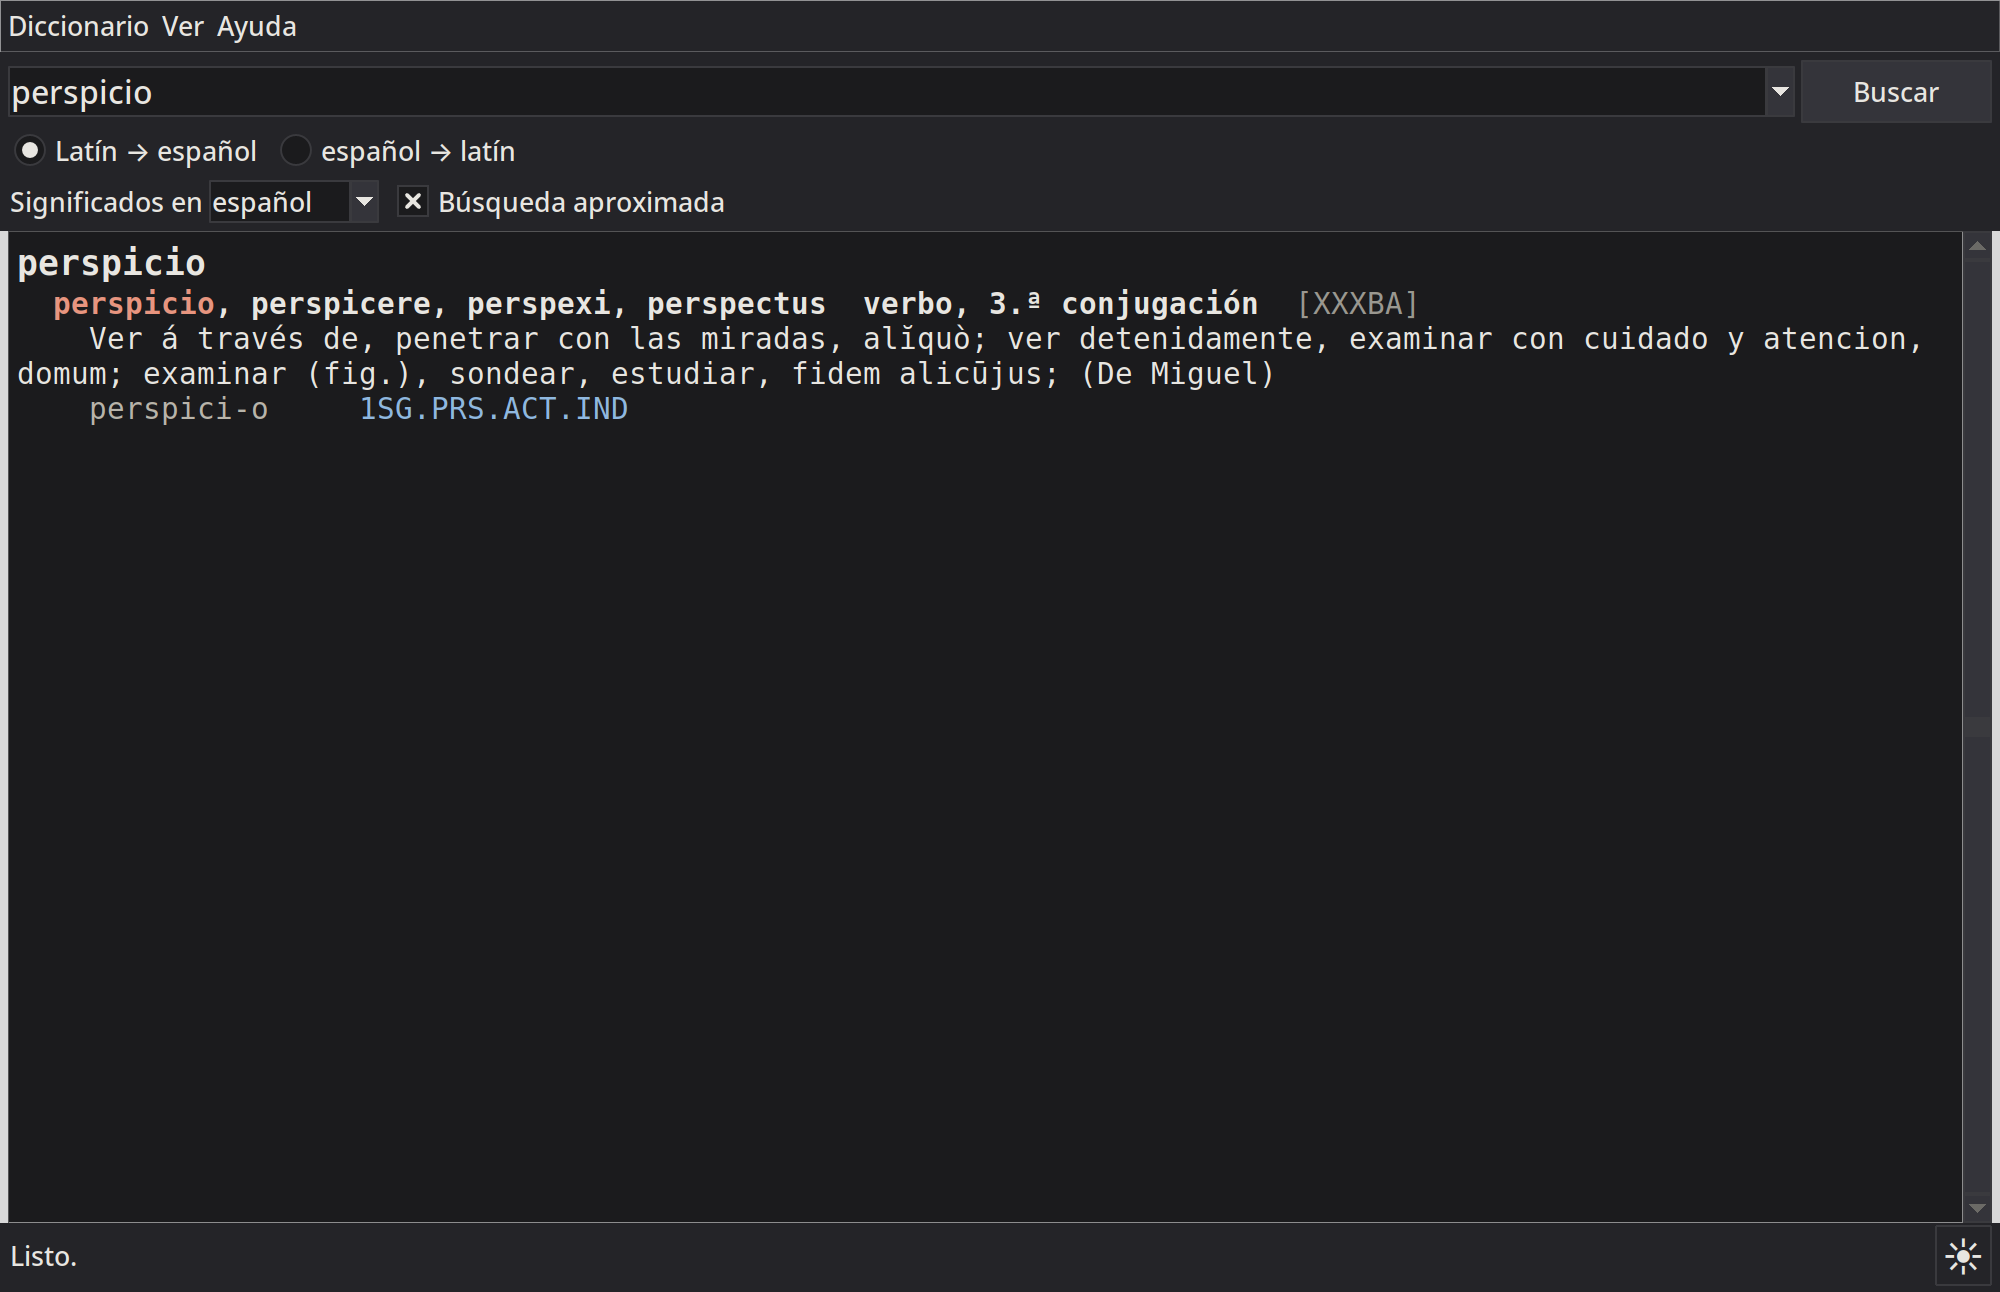
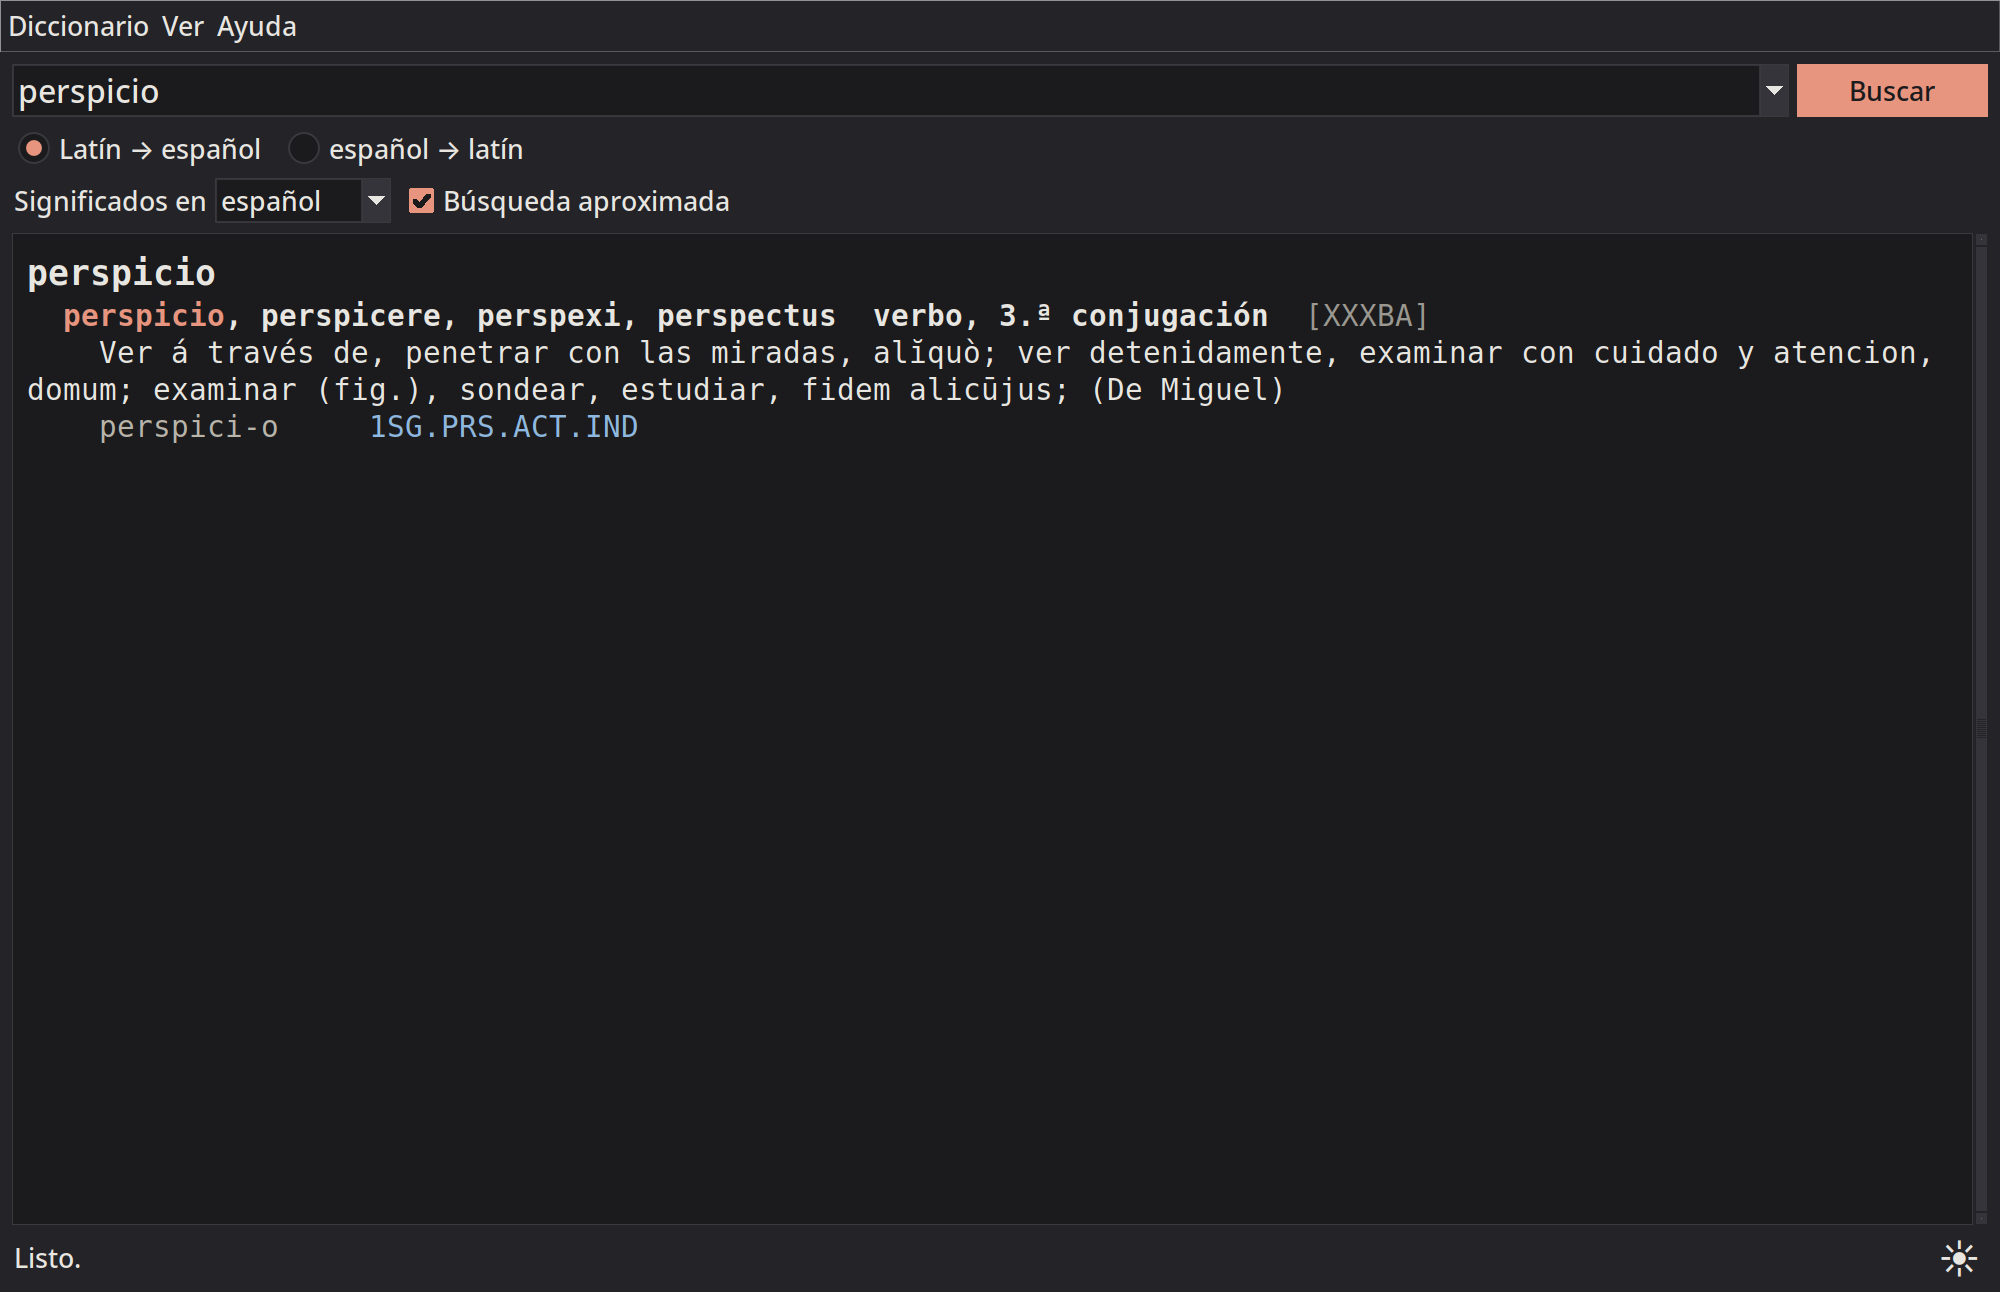
cambios en la búsqueda: v.3.4

Changed region(s): [[0.0, 0.0619, 1.0, 0.9907], [0.868, 0.031, 1.0, 0.0929]]

diff --git a/tricks.py b/tricks.py
@@ -13,14 +13,15 @@ the trick's explanation goes in NOTES.
 
 from __future__ import annotations
 
+import itertools
 import re
 from typing import TYPE_CHECKING
 from collections.abc import Callable
 
 from model import (Pos, Case, Number, Gender, NumeralSort, Decl, Form,
                     Inflection, Freq, medieval_fold)
-from results import (Origin, Parse, Found, trick_mark, marked, found, chain,
-                     parses_of, shown, from_dictionary)
+from results import (Origin, Parse, Found, mark, trick_mark, marked, found,
+                     chain, parses_of, shown, from_dictionary)
 
 if TYPE_CHECKING:
     from analyzer import Analyzer, Opts
@@ -446,6 +447,81 @@ def _medieval_spellings(t: _Tricks) -> bool:
                                      f"of {', '.join(found_as)}")
             return True
     return False
+
+
+#  The entries that `diphthongs` keeps: those at least this frequent
+DIPHTHONG_FREQ = Freq.C
+
+
+def diphthongs(az: Analyzer, word: str, notes: dict, known: list[Found],
+               capitalized: bool = False) -> list[Found]:
+    """A word found as it is may also be a medieval spelling with e for ae
+    or oe (queruntur for quaeruntur, celum for caelum or coelum): the
+    entries that its e's read as ae or oe find, besides those of KNOWN.  A
+    final e is left alone (esse, bene, ille would find essae, benae,
+    illae); an unknown word gets it from `_medieval_spellings`.  A word
+    found with an enclitic is respelt without it (querunturque).  Only
+    frequent entries are kept, and names only for a CAPITALIZED word (or
+    eum would also be Aea, and tres Tros)."""
+    w = word.lower()
+    seen = {p.id for p in parses_of(known)}
+    out, found_as = [], []
+    tries = [(w, None)] + [
+        (az.strip_tackon(w, p.source), p.source) for p in shown(known)
+        if p.form.pos == Pos.TACKON and
+        az.strip_tackon(w, p.source) != w]
+    for less, tackon in tries:
+        for new in _e_respellings(less):
+            findings = az.word(new, az.default_opts(), True)
+            if not findings or _ends_with_tackon(findings):
+                continue
+            fresh = found(p for p in parses_of(findings)
+                          if p.id not in seen and _common(p, capitalized))
+            if not fresh:
+                continue
+            seen.update(p.id for p in parses_of(fresh))
+            if tackon is not None:
+                fresh = marked(mark(tackon), fresh)
+                new += tackon.fix
+            out = chain(out, marked(trick_mark(f'Medieval {w} -> {new}'),
+                                    fresh))
+            found_as.append(new)
+    if found_as:
+        notes.setdefault(Origin.TRICK, f"'{w}' may be a medieval spelling "
+                                       f"of {', '.join(found_as)}")
+    return out
+
+
+def _common(p: Parse, capitalized: bool) -> bool:
+    """Whether P is of a frequent entry (or an irregular form), and not
+    of a name unless CAPITALIZED."""
+    entry = p.entry
+    if entry is None:
+        return True
+    if entry.stems[0][:1].isupper() and not capitalized:
+        return False
+    return Freq.X < entry.codes.freq <= DIPHTHONG_FREQ
+
+
+def _e_respellings(w: str) -> list[str]:
+    """W with its e's (but a final one, or one already in ae or oe) as ae
+    or oe: all the ways, or if they are too many, one e at a time."""
+    places = [i for i in _places(w[:-1], 'e')
+              if i == 0 or w[i - 1] not in 'ao']
+    if 3 ** len(places) - 1 <= MOST_RESPELLINGS:
+        choices = [c for c in itertools.product(('e', 'ae', 'oe'),
+                                                repeat=len(places))
+                   if any(d != 'e' for d in c)]
+    else:
+        choices = [tuple(d if j == i else 'e' for j in range(len(places)))
+                   for i in range(len(places)) for d in ('ae', 'oe')]
+    out = []
+    for choice in choices:
+        new = list(w)
+        for i, d in zip(places, choice):
+            new[i] = d
+        out.append(''.join(new))
+    return out
 
 
 def _respellings(lex, word: str) -> list[list[str]]:

diff --git a/tests/test_analyzer.py b/tests/test_analyzer.py
@@ -131,6 +131,30 @@ class AnalyzerTests(unittest.TestCase):
         self.az.reset()
         self.assertTrue(self.analyze('hystorie').unknown)
 
+    def stems(self, word):
+        return {p.entry.stems[0] for rd in self.analyze(word).readings
+                for p in rd.forms if p.entry}
+
+    def test_e_for_ae_or_oe_in_a_known_word(self):
+        # queruntur is queror, and also quaero; celum caelum and coelum
+        for word, stems in (('queruntur', {'quer', 'quaer'}),
+                            ('celum', {'cael', 'coel'}),
+                            ('querunturque', {'quer', 'quaer'})):
+            self.assertLessEqual(stems, self.stems(word), word)
+        r = self.analyze('queruntur')
+        self.assertIn('quaeruntur', r.notes[Origin.TRICK])
+
+    def test_e_for_ae_or_oe_leaves_common_words_alone(self):
+        # a final e (essae, benae), rare entries and names (eum: Aea)
+        for word in ('esse', 'bene', 'ille', 'eum', 'tres', 'ea'):
+            r = self.analyze(word)
+            self.assertNotIn(Origin.TRICK, r.notes, word)
+
+    def test_e_for_ae_or_oe_needs_the_setting(self):
+        self.az.settings.medieval_spellings = False
+        self.az.reset()
+        self.assertNotIn('quaer', self.stems('queruntur'))
+
     def test_doubled_letters_in_an_ending_are_not_medieval(self):
         r = self.analyze('amicuss')
         self.assertNotIn('medieval', r.notes.get(Origin.TRICK, ''))

diff --git a/helptext.py b/helptext.py
@@ -55,7 +55,9 @@ HELP = {
            'one.  Such results are marked as such.'),
     'medieval_spellings':
         N_('With use_tricks, also try medieval spellings (e for ae, y for '
-           'i, michi for mihi, single for doubled consonants ...).'),
+           'i, michi for mihi, single for doubled consonants ...), also '
+           'for a word that is found: its e may be ae or oe (queruntur, '
+           'of queror, is also quaeruntur, of quaero).'),
     'read_compounds':
         N_('Read a participle followed by a form of esse as a compound '
            'tense (laudatus est: perfect passive).'),

diff --git a/analyzer.py b/analyzer.py
@@ -511,6 +511,10 @@ class Analyzer:
         notes: dict[Origin, str] = {}
         out = self._passes(word, notes)
         est = False         # est written in the word (amatust)
+        if out and s.use_tricks and s.medieval_spellings:
+            #  (e for ae or oe: queruntur is also quaeruntur)
+            out = chain(out, tricks.diphthongs(self, word, notes, out,
+                                                  capitalized))
         if not out:
             out = self.prodelision(word, notes)
             est = bool(out)

diff --git a/version.py b/version.py
@@ -12,7 +12,7 @@ import sys
 NAME = 'py-words'
 #  Al subir la versión: también el nombre del zip en los dos README, el
 #  título de docs/DESCRIPCIÓN_es.md y las notas de "Version"/"Versiones".
-VERSION = '3.3'
+VERSION = '3.4'
 URL = 'https://github.com/nivaca/py-words'
 
 HERE = os.path.dirname(os.path.abspath(__file__))

diff --git a/README_es.md b/README_es.md
@@ -163,7 +163,7 @@ Para llevarlo a otro sitio, copie la carpeta o haga un zip del programa:
 
     $ python3 bundle-zip.py [-o CARPETA] [--tests]
 
-Eso escribe `py-words-v.3.3.zip` (con la versión del programa), con el
+Eso escribe `py-words-v.3.4.zip` (con la versión del programa), con el
 programa dentro de una carpeta del mismo nombre.  Lleva los programas,
 los datos, los iconos y los documentos, y un archivo `COMMIT` con el
 commit del que se hizo, que muestra "Acerca de".  Deja fuera los archivos ocultos
@@ -178,6 +178,8 @@ Uso
     $ python3 words.py rem acu tetigisti
     $ python3 words.py                         # interactivo
     $ python3 words_gui.py                     # una ventana
+    $ python3 words_gui.py perspicio           # una ventana que la busca
+    $ python3 words_gui.py -e mirar            # una ventana, al latín
     $ python3 words_tui.py                     # pantalla completa, en una terminal
     $ python3 words_web.py                     # en un navegador web
 
@@ -1069,7 +1071,13 @@ nada por h, ci por ti ante vocal, mn por mpn y consonantes simples por
 las dobles (solo en las raíces).  Así se encuentran hystorie,
 phylosophia, dyabolus, ecclesie e ympnus, y también michi y nichil (ch
 leída como h).  Se queda con las grafías de las entradas más
-frecuentes.  Además, una -st final puede representar est tras vocal, m o
+frecuentes.  Una palabra que se encuentra tal cual puede ser aún una
+grafía medieval con e por ae u oe: queruntur es una forma de queror,
+pero también puede ser quaeruntur, de quaero.  Por eso
+`tricks.diphthongs` lee cada e de una palabra encontrada (salvo una
+final) también como ae y como oe, y añade lo que encuentra; solo se
+queda con las entradas frecuentes, y sin nombres, para que esse no sea
+también essae, ni eum Aea.  Además, una -st final puede representar est tras vocal, m o
 s (amatust, factumst, bonast, opust: amatus est, factum est, bona est,
 opus est); esto lo hace `Analyzer.prodelision`, y un participio hallado
 así forma el tiempo compuesto con ese est.  Tomé las dos ideas de
@@ -1171,6 +1179,20 @@ con `git diff`.
 Versiones
 ---------
 
+- 3.4:
+  - Con las grafías medievales, la e de una palabra que se encuentra
+    puede ser también ae u oe: queruntur da queror, y también
+    quaeruntur, de quaero (y celum, caelum y coelum).  Solo se añaden
+    entradas frecuentes, y no para una e final, así que esse, bene o
+    ille no dan nada más.
+  - Las ventanas se ven mejor: en Linux, el modo claro tiene los
+    colores de la página web (era el tema gris de Tk; Windows y macOS
+    conservan el suyo), y en los dos modos "Buscar" va en el color de
+    acento, las casillas tienen una marca de verificación, el botón del
+    modo oscuro no tiene borde, los resultados tienen más espacio entre
+    las líneas y alrededor, y los controles están mejor espaciados.
+  - La ventana busca las palabras que se le dan en la línea de órdenes
+    (`python3 words_gui.py perspicio`; con `-e`, al latín).
 - 3.3:
   - "Acerca de" (en la ventana, la terminal, la página web, `~A` y
     `--version`) da el commit del que viene el programa, como la
@@ -1196,12 +1218,6 @@ Versiones
     que py-words incluye ahora un nuevo diccionario inglés (Lewis y
     Short) y dos nuevos diccionarios españoles (Echave-Sustaeta y De
     Miguel).
-  - Las ventanas se ven mejor: en Linux, el modo claro tiene los
-    colores de la página web (era el tema gris de Tk; Windows y macOS
-    conservan el suyo), y en los dos modos "Buscar" va en el color de
-    acento, las casillas tienen una marca de verificación, el botón del
-    modo oscuro no tiene borde, los resultados tienen más espacio entre
-    las líneas y alrededor, y los controles están mejor espaciados.
 - 3.2:
   - El diccionario tiene ahora 93 370 entradas.  Lewis y Short aportó
     6653 palabras raras y 1783 nombres, el *Nuevo diccionario latino-español

diff --git a/README.md b/README.md
@@ -159,7 +159,7 @@ for distributing it:
 
     $ python3 bundle-zip.py [-o FOLDER] [--tests]
 
-This writes `py-words-v.3.3.zip` (with the version of the program), with
+This writes `py-words-v.3.4.zip` (with the version of the program), with
 the program inside a folder of the same name.  It contains the programs,
 the data, the icons and the documents, and a file `COMMIT` with the
 commit it was made from, which "About" shows.  It does not contain hidden files
@@ -175,6 +175,8 @@ Usage
     $ python3 words.py rem acu tetigisti
     $ python3 words.py                         # interactive
     $ python3 words_gui.py                     # a window
+    $ python3 words_gui.py perspicio           # a window, looking it up
+    $ python3 words_gui.py -e look             # a window, to Latin
     $ python3 words_tui.py                     # full screen, in a terminal
     $ python3 words_web.py                     # in a web browser
 
@@ -1046,7 +1048,13 @@ endings of the word with those of the dictionary under
 no h, ci for ti before a vowel, mn for mpn and single consonants for
 doubled ones (in the stems only).  So hystorie, phylosophia, dyabolus,
 ecclesie and ympnus are found, and michi and nichil too (ch read as h).
-It keeps the respellings of the most frequent entries.  Also, a final
+It keeps the respellings of the most frequent entries.  A word that is
+found as it is may still be a medieval spelling with e for ae or oe:
+queruntur is a form of queror, but it can also be quaeruntur, of quaero.
+So `tricks.diphthongs` reads each e of a word that is found (but a
+final one) as ae or oe too, and adds what it finds; it keeps only
+frequent entries, and no names, so that esse is not also essae, nor eum
+Aea.  Also, a final
 -st can stand for est after a vowel, m or s (amatust, factumst, bonast,
 opust: amatus est, factum est, bona est, opus est); this is
 `Analyzer.prodelision`, and a participle found this way makes the
@@ -1144,6 +1152,19 @@ files with `UPDATE_GOLDEN=1` and review them with `git diff`.
 Version
 -------
 
+- 3.4:
+  - With the medieval spellings, the e of a word that is found may also
+    be ae or oe: queruntur gives queror, and also quaeruntur, of quaero
+    (and celum caelum and coelum).  Only frequent entries are added, and
+    not for a final e, so esse, bene or ille give nothing more.
+  - The windows look better: on Linux, light mode has the colours of
+    the web page (it was Tk's plain grey theme; Windows and macOS keep
+    their own), and in both modes "Look up" is in the colour of the
+    accent, the check boxes have a tick, the dark mode button has no
+    border, the results have more room and space between the lines, and
+    the controls are spaced more evenly.
+  - The window looks up the words given on its command line
+    (`python3 words_gui.py perspicio`; with `-e`, to Latin).
 - 3.3:
   - "About" (in the window, the terminal, the web page, `~A` and
     `--version`) gives the commit the program comes from, as the
@@ -1166,12 +1187,6 @@ Version
     the starting point, that its code and data were redesigned, and
     that py-words now includes a new English dictionary (Lewis and
     Short) and two new Spanish ones (Echave-Sustaeta and De Miguel).
-  - The windows look better: on Linux, light mode has the colours of
-    the web page (it was Tk's plain grey theme; Windows and macOS keep
-    their own), and in both modes "Look up" is in the colour of the
-    accent, the check boxes have a tick, the dark mode button has no
-    border, the results have more room and space between the lines, and
-    the controls are spaced more evenly.
 - 3.2:
   - The dictionary has now 93,370 entries.  Lewis and Short gave 6,653
     rare words and 1,783 names, R. de Miguel's *Nuevo diccionario latino-español

diff --git a/docs/DESCRIPCIÓN_es.md b/docs/DESCRIPCIÓN_es.md
@@ -1,4 +1,4 @@
-# py-words 3.3: descripción
+# py-words 3.4: descripción
 
 ## Análisis
 
